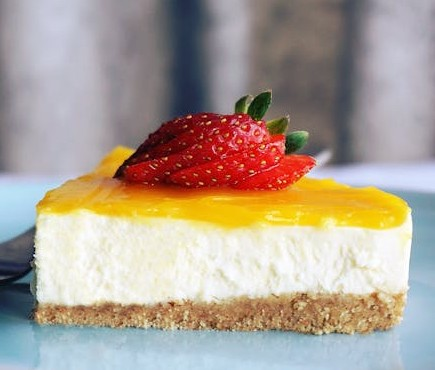
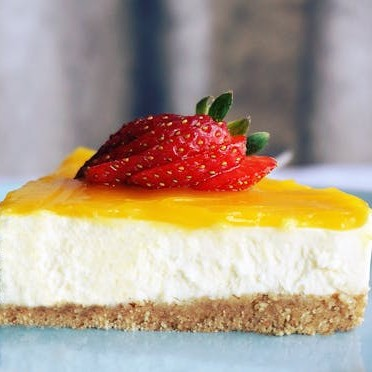
adjust css and colors

diff --git a/src/index.css b/src/index.css
@@ -161,7 +161,7 @@ header{
 .header-right{
   display: flex;
   justify-content: space-evenly;
-  background: #444;
+  background: #111;
   width: 14rem;
 }
 .signup-button{
@@ -193,7 +193,8 @@ header{
   justify-content: space-evenly;
   width: 100%;
   height: 25.4rem;
-  background: #caf8fc;
+  background: #444;
+  color: #fff;
   padding: 2rem;
   
 
@@ -209,7 +210,7 @@ header{
   margin-top: 2rem;
   padding-top: 0rem;
   border-radius: 1rem;
-  background: #c5c5c5;
+  background: #666;
   overflow: scroll;
 
   touch-action: pan-x;
@@ -217,10 +218,10 @@ header{
   
 }
 .category-item{
-  background: #fff;
+  background: #333;
   /* border: 2px solid green; */
   border-radius: 1rem;
-  
+  text-align: center;
   height: 13rem;
   width: 9.7rem;
   min-width: 9.7rem;
@@ -233,7 +234,7 @@ header{
 }
 .category-item p{
   padding: 0.5rem;
-  padding-left: 1rem;
+  
   
  
 }
@@ -254,7 +255,7 @@ header{
   justify-content: flex-start;
   margin-top: 2rem;
   padding-top: 0rem;
-  background: #c5c5c5;
+  background: #666;
   overflow: scroll;
 
   touch-action: pan-x;
@@ -275,9 +276,9 @@ header{
   padding: 1rem;
 
   font-size: 2rem;
-  color: #111;
+  color: #fff;
   width: 100%;
-  background: #fff;
+  background: #333;
   border-radius: 1rem 1rem 0rem 0rem;
 }
 .restaurants-item img{
@@ -338,18 +339,18 @@ header{
 }
 
 .restaurant-categories {
-  height: 4rem;
+  height: 5rem;
   display: flex;
   gap: 1rem 1rem;
   justify-content: flex-left;
-  padding: 0.5rem;
+  padding: 1rem;
   background: #111;
 }
 .restaurant-category-item {
   height: 3rem;
   width: 9rem;
   padding: 0.25rem;
-  border: 2px solid rgb(37, 177, 100);
+  border: 2px solid rgb(248, 248, 248);
   border-radius: 1rem;
   text-align: center;
   background-color: #444;
@@ -361,6 +362,8 @@ header{
   height: 6rem;
   padding: 2rem;
   padding-left: 2rem;
+  color: #fff;
+  background-color: #444;
 }
 .products {
   height: auto;
@@ -400,7 +403,7 @@ header{
   position: relative;
   height: 200px;
   width: 60%;
-  padding: 1rem;
+  padding: 0rem;
   background: #444;
   color: #fff;
 }
@@ -419,8 +422,8 @@ header{
   font-size: 16px;
   cursor: pointer;
 }
-.product-text h3 {
-  padding-bottom: 0.5rem;
+.product-text h2 {
+  padding-bottom: 1rem;
 }
 .product-text p {
   line-height: 1.2;
@@ -435,6 +438,7 @@ header{
   height: 200px;
   width: 200px;
   margin-left: 6%;
+  background-color: #444;
   
   /* background: url(https://placehold.co/200x200); */
 }
@@ -443,10 +447,10 @@ header{
 }
 @media  screen and (max-width: 560px) {
   .product-image {
-      height: 150px;
-      min-width: 150px;
+      height: 200px;
+      min-width: 200px;
       align-self: center;
-      background: url(https://placehold.co/150x150);
+      /* background: url(https://placehold.co/150x150); */
       
   }
 }
@@ -509,14 +513,15 @@ header{
   height: 4rem; 
   padding: 0.5rem;
   padding-left: 1rem;
-  background-color: #222;
+  background-color: #444;
   color: #fff;
 }
 .order-modal-price {
   height: 3rem; 
   padding: 0.5rem;
   padding-left: 1rem;
-  background-color: #fff;
+  background-color: #444;
+  color: #fff;
 }
 .order-modal-description {
   height: auto;
@@ -529,7 +534,8 @@ header{
   height: 15rem; 
   padding: 0.5rem;
   padding-left: 1rem;
-  background-color: #fff;
+  background-color: #333;
+  color: #fff;
   font-size: 1.4rem;
   input[type="checkbox"] {
       transform:scale(2, 2);

diff --git a/src/components/Restaurant.tsx b/src/components/Restaurant.tsx
@@ -80,7 +80,7 @@ function Restaurant() {
 
 
 
-  function ModalTest(){
+  /* function ModalTest(){
     const dialog = document.getElementsByClassName("dial");
     const showButton = document.querySelector("dialog + button");
     const closeButton = document.querySelector("dialog button");
@@ -89,16 +89,7 @@ function Restaurant() {
       alert("test");
       console.log(dialog);
      
-      }
-    // "Show the dialog" button opens the dialog modally
-    /* showButton.addEventListener("click", () => {
-      dialog.showModal();
-    });
-    
-    // "Close" button closes the dialog
-    closeButton.addEventListener("click", () => {
-      dialog.close();
-    }); */
+      } 
     return(
         <div>
         <dialog className="dial">
@@ -109,7 +100,7 @@ function Restaurant() {
         </div>
     )
   }
-  
+*/  
 
 
   function Products() {
@@ -118,7 +109,7 @@ function Restaurant() {
     return (
         
         <div>
-            <ModalTest />
+            
             <div className="products-category-title">
                 <h1>{data.restaurants[0].categories[0]}</h1>
             </div>       
@@ -193,7 +184,7 @@ function Restaurant() {
     <>
     <div className="product" onClick={() => (setId(props.id),console.log(props.id),setShowModal(true), setShowBackdrop(true))}>
         <div className="product-text"> 
-            <h3>{props.name} has id {props.id}</h3>
+            <h2>{props.name}</h2>
             <p>{props.desc}</p>
             
             <h3 className="product-price">{props.price} €</h3>

diff --git a/src/components/OrderModal.tsx b/src/components/OrderModal.tsx
@@ -23,7 +23,7 @@ function OrderModal({ onClose, id }: OrderModalProps) {
             
         </div>
         <div className="order-modal-price">
-            <h2>{data.restaurants[2].products[id].price} eur</h2>
+            <h2>{data.restaurants[2].products[id].price} €</h2>
         </div>
         <div className="order-modal-description">
             <p>{data.restaurants[2].products[id].desc}</p>
@@ -81,7 +81,7 @@ function OrderModal({ onClose, id }: OrderModalProps) {
     return (
         <button id="add-to-order-button">
             <p className="add-to-order-text">Add to order</p>
-            <p className="add-to-order-value">10.5 E</p>
+            <p className="add-to-order-value">10.5 €</p>
         </button>
     );
   }
